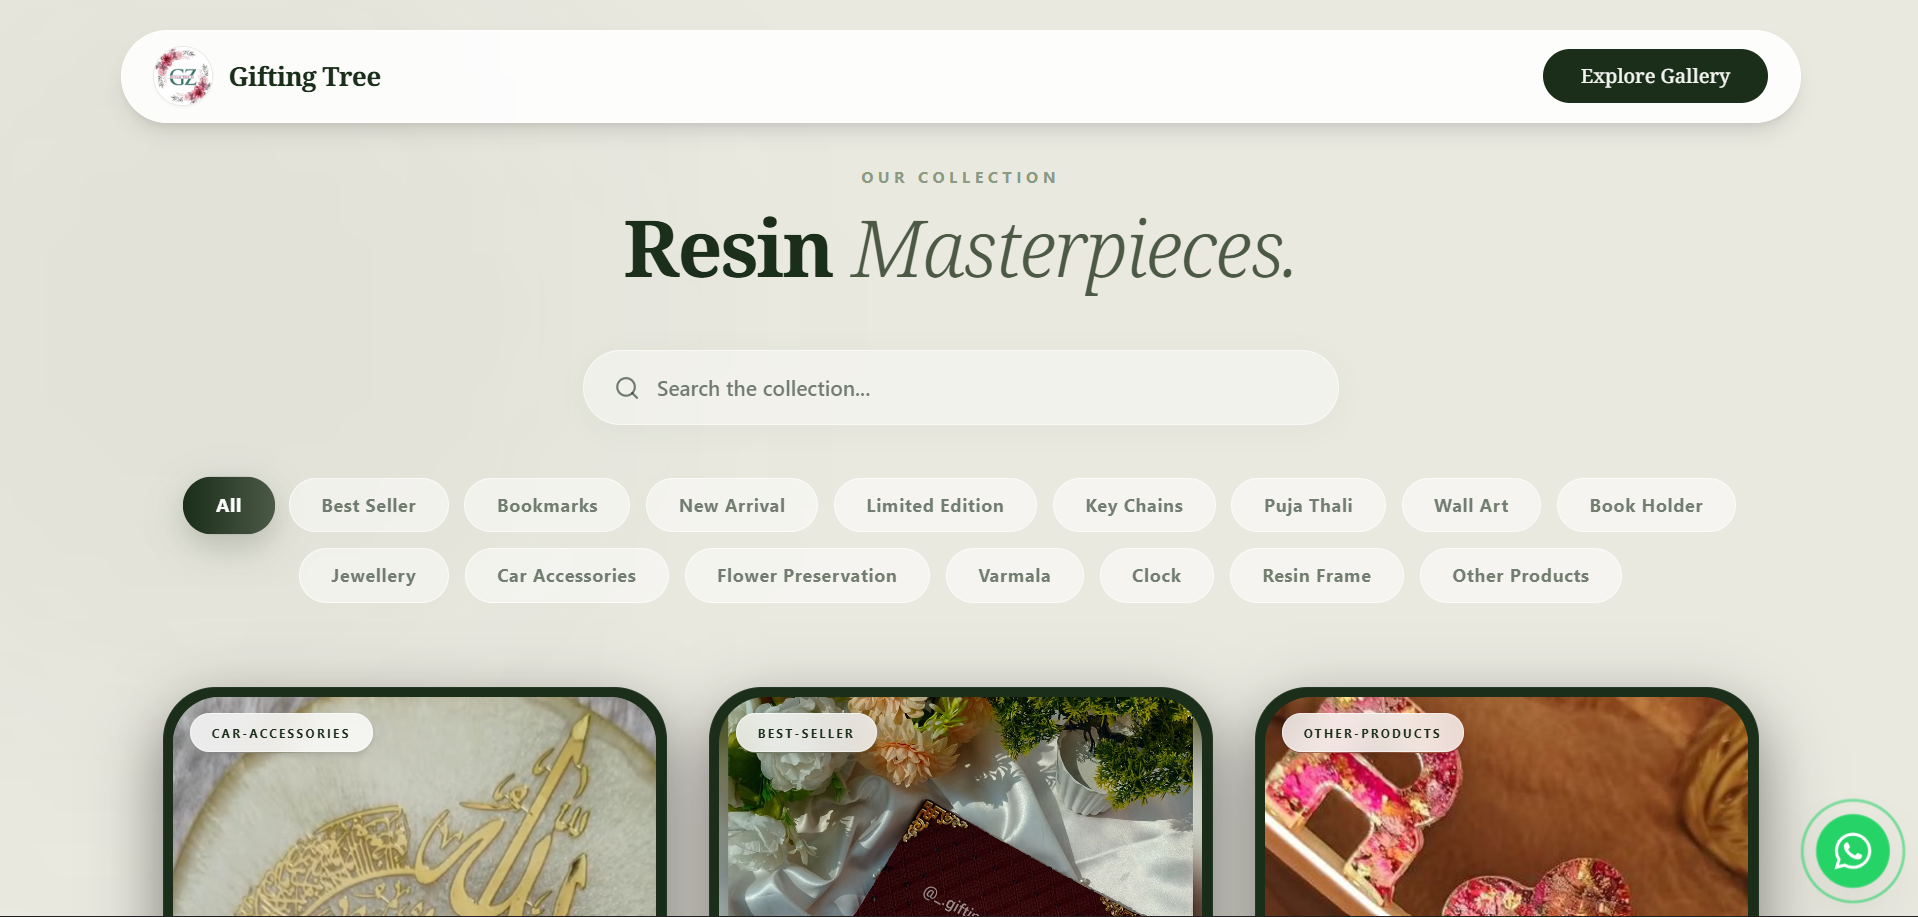
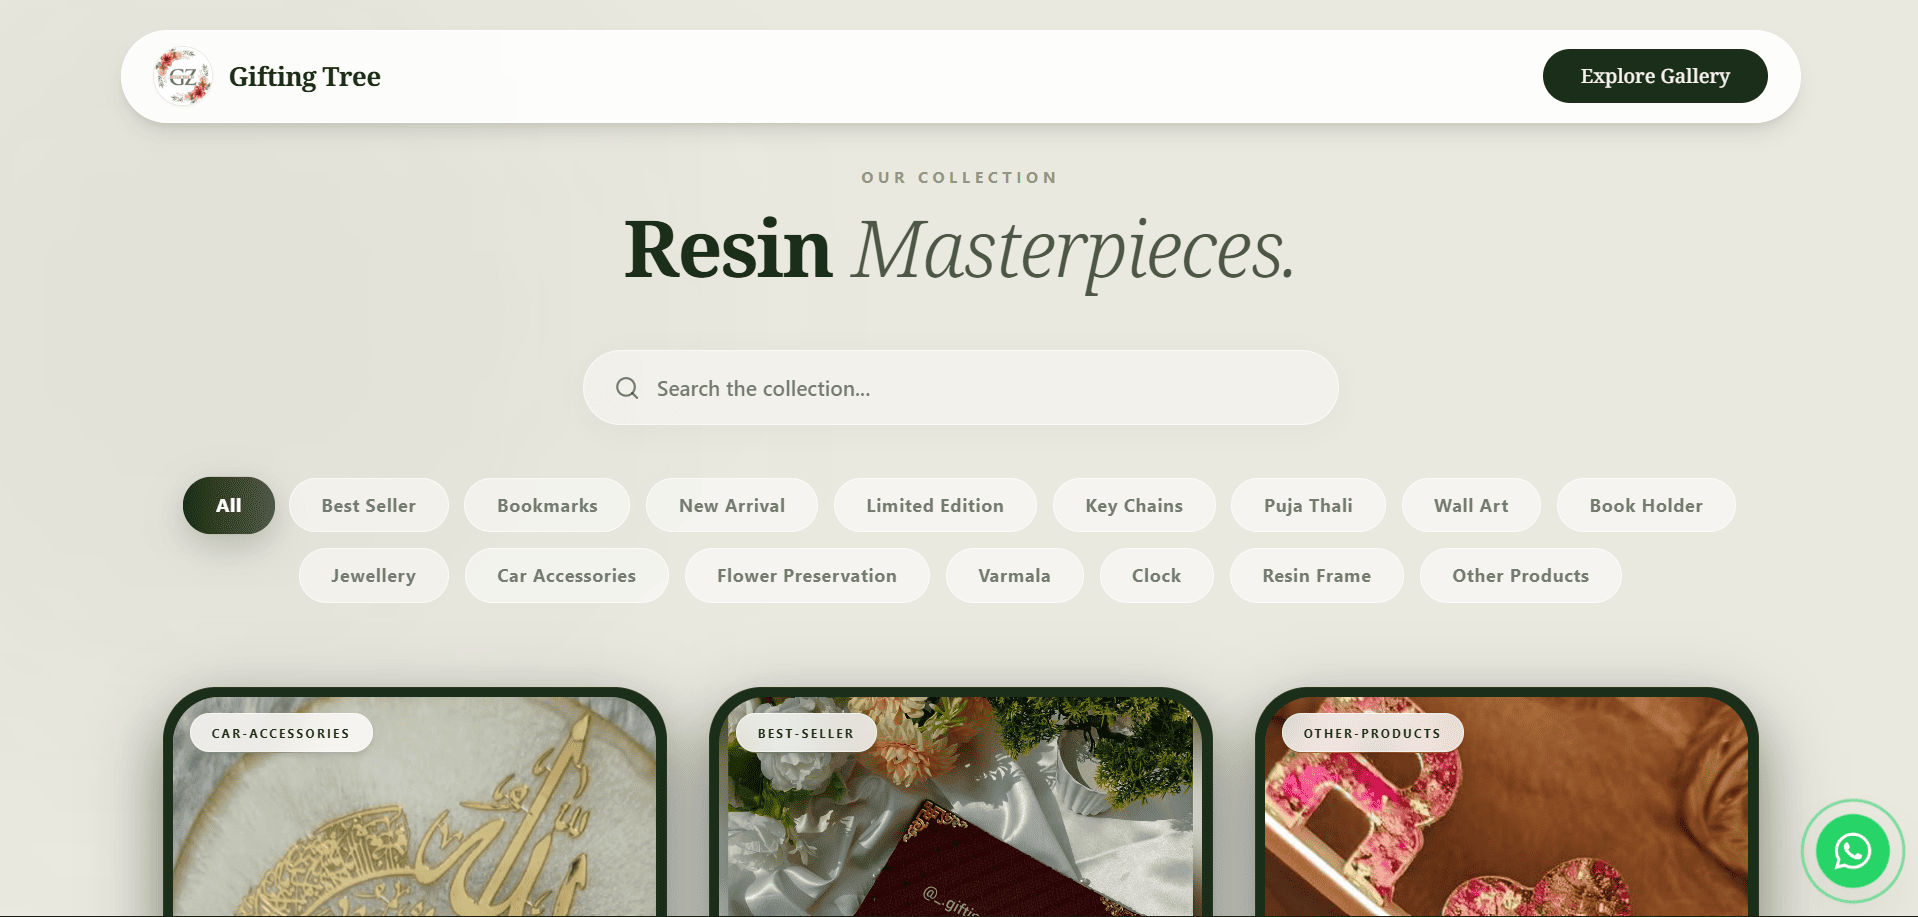
fixedallproblem

diff --git a/index.html b/index.html
@@ -31,11 +31,11 @@
     <meta property="og:type" content="website" />
     <meta
       property="og:title"
-      content="Gifting Tree | Premium Handmade Products"
+      content="Gifting Tree | Premium Handcrafted Resin Art & Unique Gifts"
     />
     <meta
       property="og:description"
-      content="Discover premium handcrafted resin products and customized gifts at Gifting Tree."
+      content="Discover premium handcrafted resin products, customized gifts, and beautiful art pieces at Gifting Tree. Shop unique, high-quality artisanal gifts for every occasion."
     />
     <!-- Absolute URL is required for platforms like WhatsApp and Facebook -->
     <meta
@@ -50,11 +50,11 @@
     <meta name="twitter:card" content="summary_large_image" />
     <meta
       name="twitter:title"
-      content="Gifting Tree | Premium Handmade Products"
+      content="Gifting Tree | Premium Handcrafted Resin Art & Unique Gifts"
     />
     <meta
       name="twitter:description"
-      content="Discover premium handcrafted resin products and customized gifts at Gifting Tree."
+      content="Discover premium handcrafted resin products, customized gifts, and beautiful art pieces at Gifting Tree. Shop unique, high-quality artisanal gifts for every occasion."
     />
     <meta
       name="twitter:image"

diff --git a/src/components/SEO.jsx b/src/components/SEO.jsx
@@ -9,8 +9,8 @@ const SEO = ({
   keywords,
   author = 'Gifting Tree'
 }) => {
-  const siteTitle = 'Gifting Tree | Premium Handmade Masterpieces';
-  const defaultDescription = 'Discover premium handcrafted resin products, customized gifts, and beautiful art pieces at Gifting Tree.';
+  const siteTitle = 'Gifting Tree | Premium Handcrafted Resin Art & Unique Gifts';
+  const defaultDescription = 'Discover premium handcrafted resin products, customized gifts, and beautiful art pieces at Gifting Tree. Shop unique, high-quality artisanal gifts for every special occasion.';
   const siteUrl = typeof window !== 'undefined' ? window.location.origin : 'https://giftingtree.vercel.app';
   // Using og-preview.png as the default personal image if no image is provided
   const defaultImage = `${siteUrl}/og-preview.png`;
